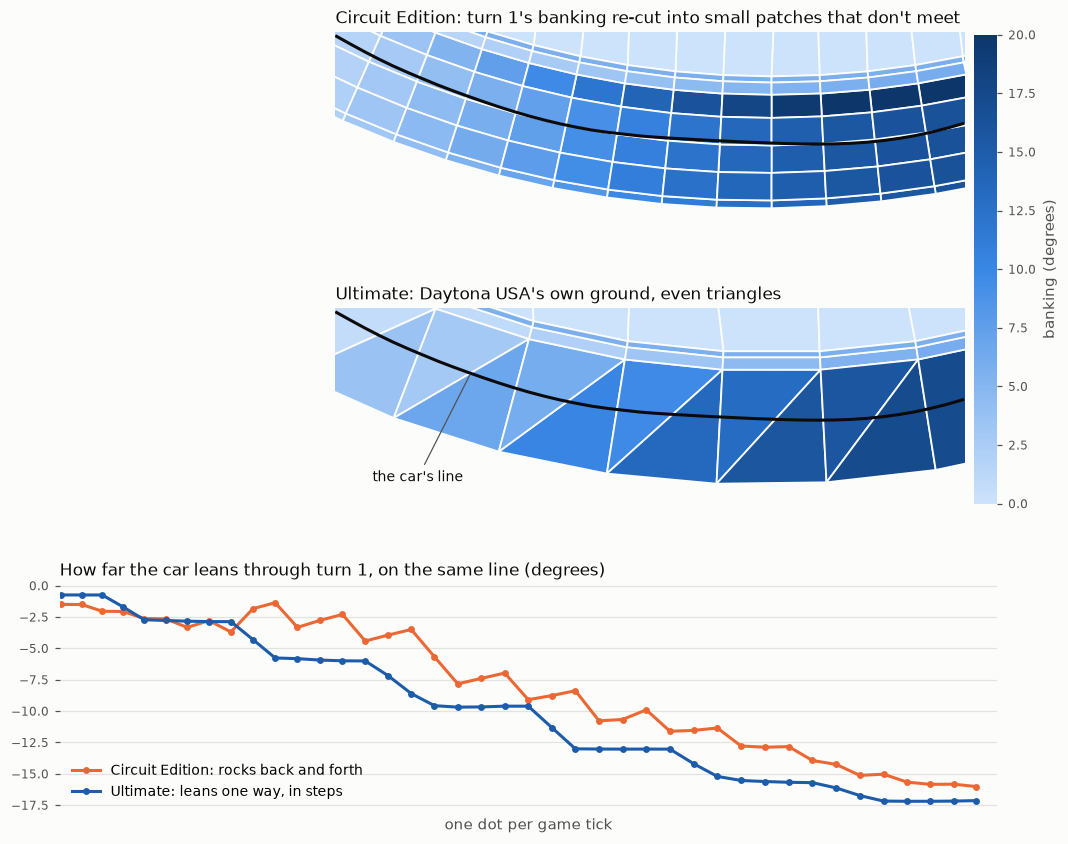
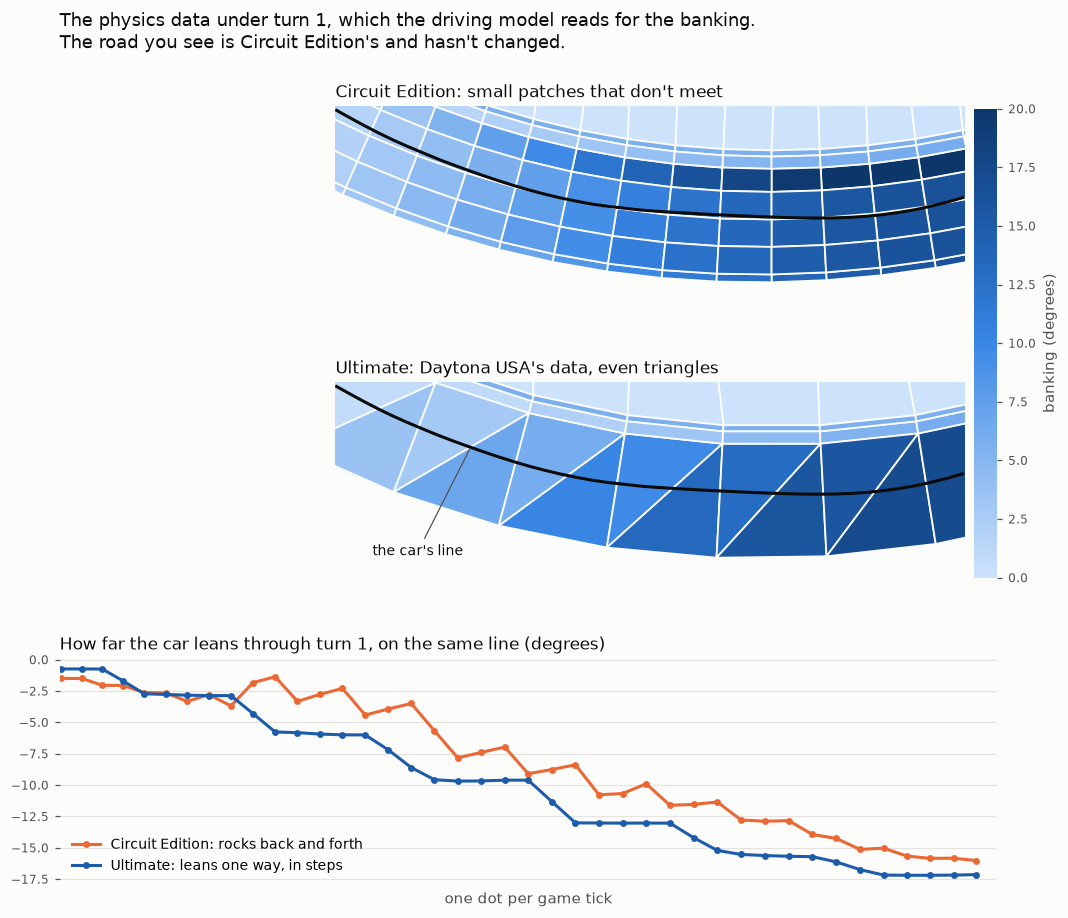
README: the road section is about physics data, not graphics
Readers took the ground figure for the road's render mesh. The section
now says the visible road is Circuit Edition's and the change is the
banking data the driving model reads, and the figure says so in its
heading and panel titles.

Changed region(s): [[0.0618, 0.0, 0.9888, 0.6469], [0.0, 0.6469, 0.927, 0.955], [0.4017, 0.955, 0.5871, 0.9858]]

diff --git a/README.md b/README.md
@@ -36,16 +36,19 @@ view too.
 
 ![Car select: Circuit Edition's cars above, Ultimate's below](docs/readme/cars.png)
 
-### Road surface
+### Road physics
 
-No more rocking through the banked turns! Circuit Edition rebuilt its
-banking out of small patches that don't line up, and the car rocks back and
-forth as it crosses them. Ultimate drives on Daytona USA's ground on the
-three original courses, and Circuit Edition's two extra courses get all-new
-ground built the same way. The track looks the same as ever, but you'll
-feel it in the banking!
+No more rocking through the banked turns! This one isn't about the road you
+see, which is Circuit Edition's and untouched. It's about the invisible
+data underneath it that tells the driving model how banked the road is
+under the car. Circuit Edition cut that data into small patches that don't
+line up, and the car rocks back and forth as it crosses them. Ultimate
+feeds the driving model the same data Daytona USA uses on the three
+original courses, and data built the same way for Circuit Edition's two
+extra courses. Same track, same graphics, but you'll feel it in the
+banking!
 
-![Turn 1's ground in both games, and how far the car leans on it](docs/readme/road_surface.png)
+![Turn 1's physics data in both games, and how far the car leans on it](docs/readme/road_surface.png)
 
 ### Engine and tire sounds
 
